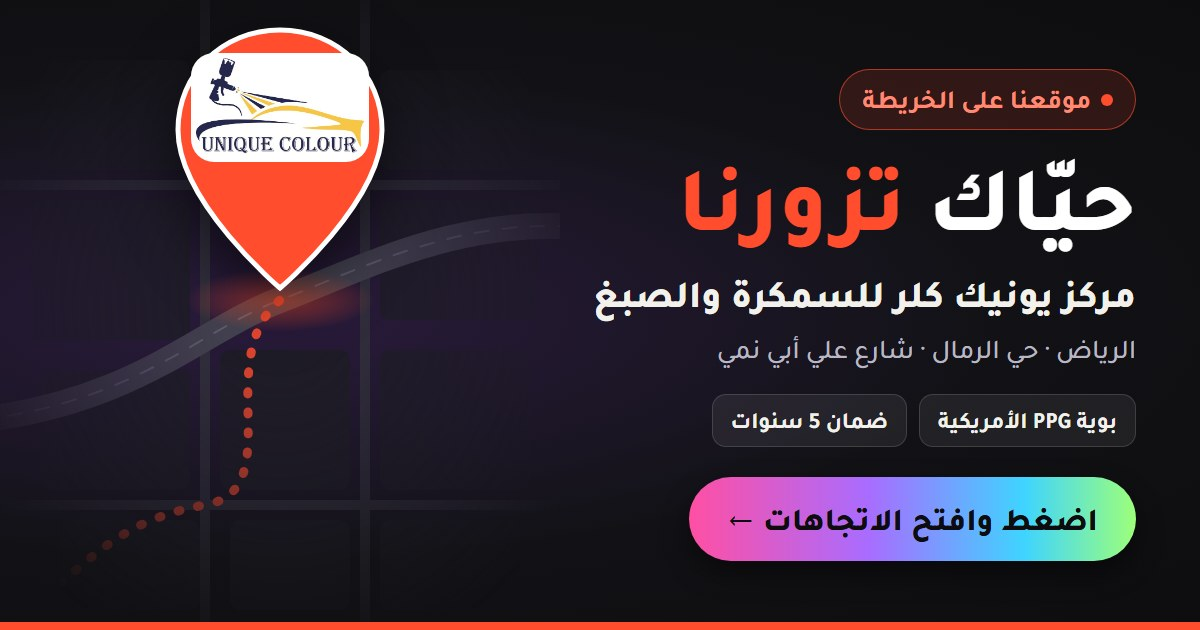
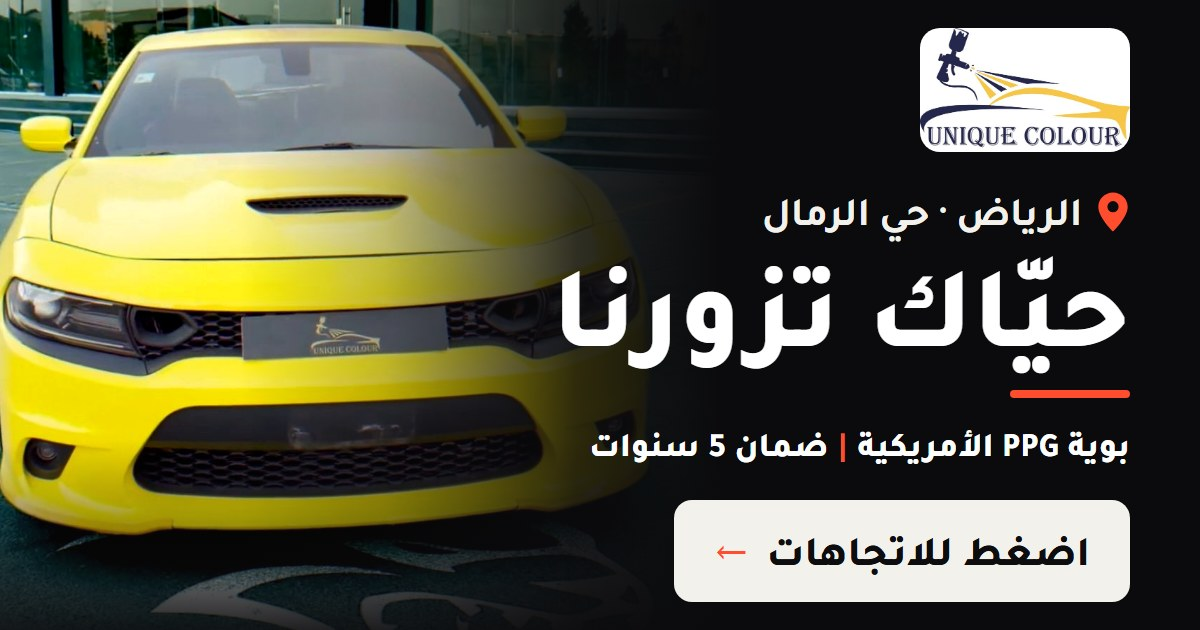
Redesign map link preview for mobile

diff --git a/map/index.html b/map/index.html
@@ -11,14 +11,14 @@
 <meta property="og:title" content="📍 موقع مركز يونيك كلر: الرياض، حي الرمال">
 <meta property="og:description" content="حيّاك تزورنا. سمكرة وصبغ ببوية PPG الأمريكية، وضمان 5 سنوات. اضغط وافتح الاتجاهات.">
 <meta property="og:url" content="https://uniquecolour-sa.github.io/map/">
-<meta property="og:image" content="https://uniquecolour-sa.github.io/assets/og-map.jpg?v=1">
-<meta property="og:image:secure_url" content="https://uniquecolour-sa.github.io/assets/og-map.jpg?v=1">
+<meta property="og:image" content="https://uniquecolour-sa.github.io/assets/og-map.jpg?v=2">
+<meta property="og:image:secure_url" content="https://uniquecolour-sa.github.io/assets/og-map.jpg?v=2">
 <meta property="og:image:type" content="image/jpeg">
 <meta property="og:image:width" content="1200">
 <meta property="og:image:height" content="630">
 <meta property="og:image:alt" content="موقع مركز يونيك كلر على الخريطة">
 <meta name="twitter:card" content="summary_large_image">
-<meta name="twitter:image" content="https://uniquecolour-sa.github.io/assets/og-map.jpg?v=1">
+<meta name="twitter:image" content="https://uniquecolour-sa.github.io/assets/og-map.jpg?v=2">
 <meta http-equiv="refresh" content="0; url=https://maps.app.goo.gl/EZzgNWue372f4FfW7">
 <link rel="canonical" href="https://uniquecolour-sa.github.io/map/">
 <style>
@@ -30,7 +30,7 @@
 </head>
 <body>
 <main>
-  <img src="/assets/og-map.jpg?v=1" alt="موقع مركز يونيك كلر">
+  <img src="/assets/og-map.jpg?v=2" alt="موقع مركز يونيك كلر">
   <div><a href="https://maps.app.goo.gl/EZzgNWue372f4FfW7">افتح الموقع في خرائط جوجل</a></div>
 </main>
 <script>location.replace("https://maps.app.goo.gl/EZzgNWue372f4FfW7");</script>
